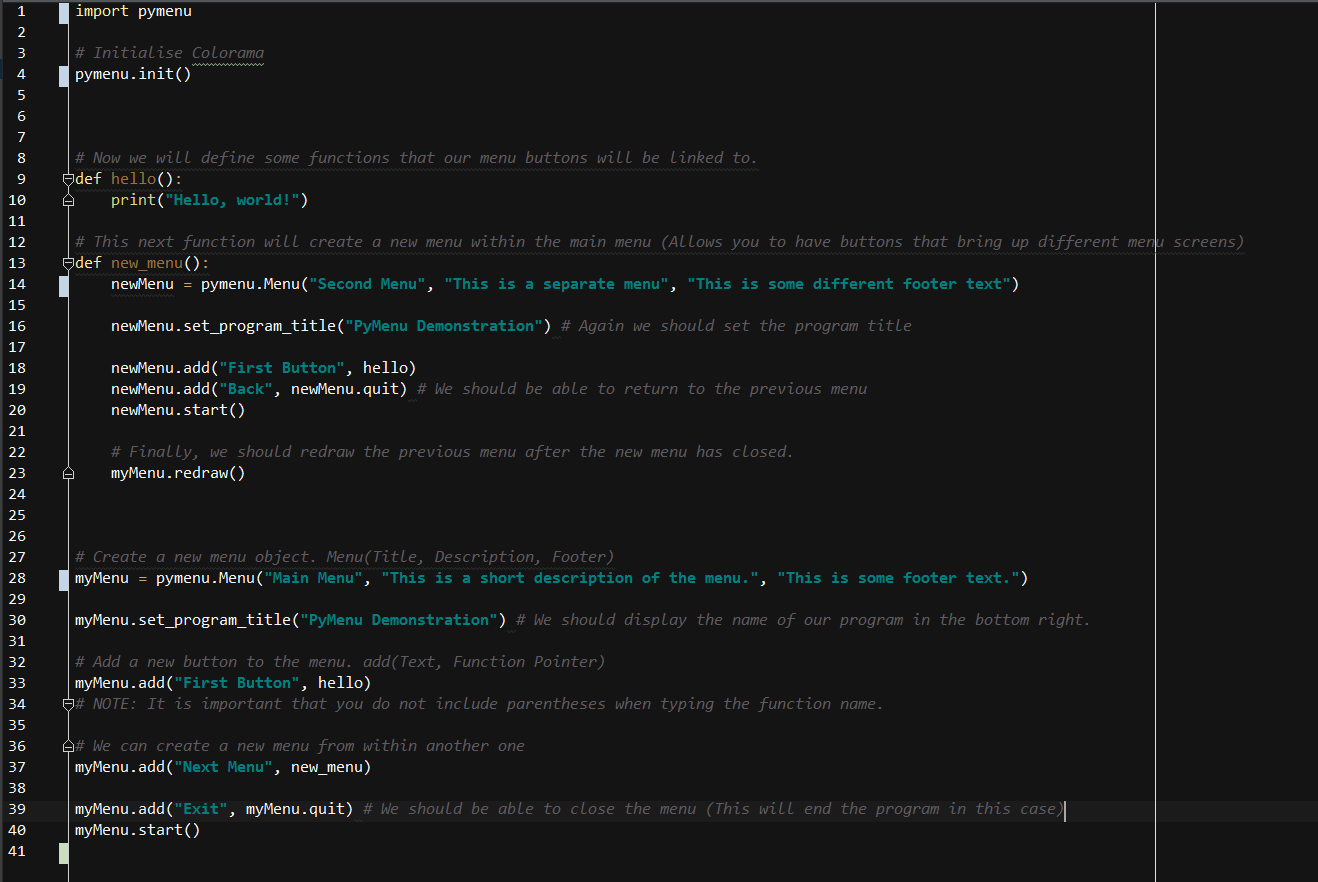
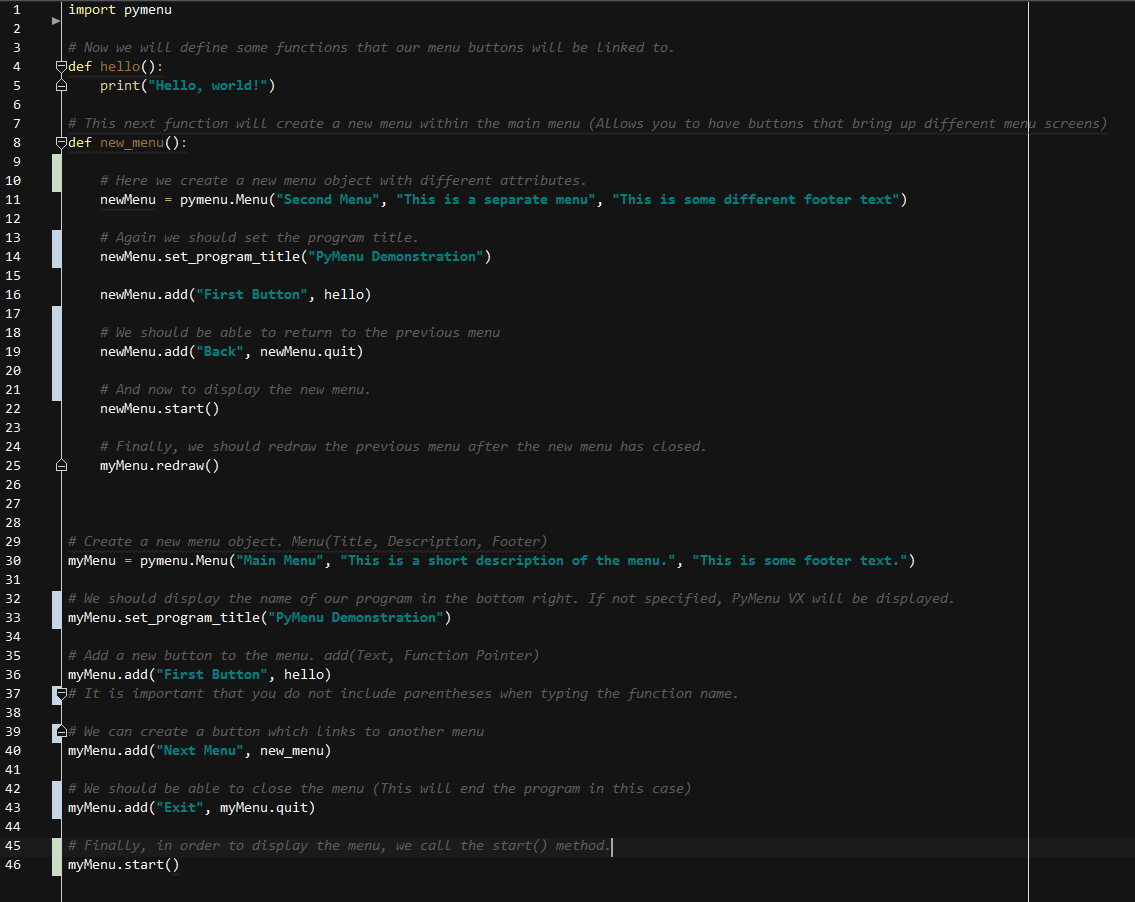
Updated demo code

diff --git a/demo.py b/demo.py
@@ -1,22 +1,24 @@
 import pymenu
 
-# Initialise Colorama
-pymenu.init()
-
-
-
 # Now we will define some functions that our menu buttons will be linked to.
 def hello():
     print("Hello, world!")
 
 # This next function will create a new menu within the main menu (Allows you to have buttons that bring up different menu screens)
 def new_menu():
+
+    # Here we create a new menu object with different attributes.
     newMenu = pymenu.Menu("Second Menu", "This is a separate menu", "This is some different footer text")
 
-    newMenu.set_program_title("PyMenu Demonstration") # Again we should set the program title
+    # Again we should set the program title.
+    newMenu.set_program_title("PyMenu Demonstration")
 
     newMenu.add("First Button", hello)
-    newMenu.add("Back", newMenu.quit) # We should be able to return to the previous menu
+
+    # We should be able to return to the previous menu
+    newMenu.add("Back", newMenu.quit)
+
+    # And now to display the new menu.
     newMenu.start()
 
     # Finally, we should redraw the previous menu after the new menu has closed.
@@ -27,14 +29,18 @@ def new_menu():
 # Create a new menu object. Menu(Title, Description, Footer)
 myMenu = pymenu.Menu("Main Menu", "This is a short description of the menu.", "This is some footer text.")
 
-myMenu.set_program_title("PyMenu Demonstration") # We should display the name of our program in the bottom right.
+# We should display the name of our program in the bottom right. If not specified, PyMenu VX will be displayed.
+myMenu.set_program_title("PyMenu Demonstration")
 
 # Add a new button to the menu. add(Text, Function Pointer)
 myMenu.add("First Button", hello)
-# NOTE: It is important that you do not include parentheses when typing the function name.
+# It is important that you do not include parentheses when typing the function name.
 
-# We can create a new menu from within another one
+# We can create a button which links to another menu
 myMenu.add("Next Menu", new_menu)
 
-myMenu.add("Exit", myMenu.quit) # We should be able to close the menu (This will end the program in this case)
+# We should be able to close the menu (This will end the program in this case)
+myMenu.add("Exit", myMenu.quit)
+
+# Finally, in order to display the menu, we call the start() method.
 myMenu.start()
